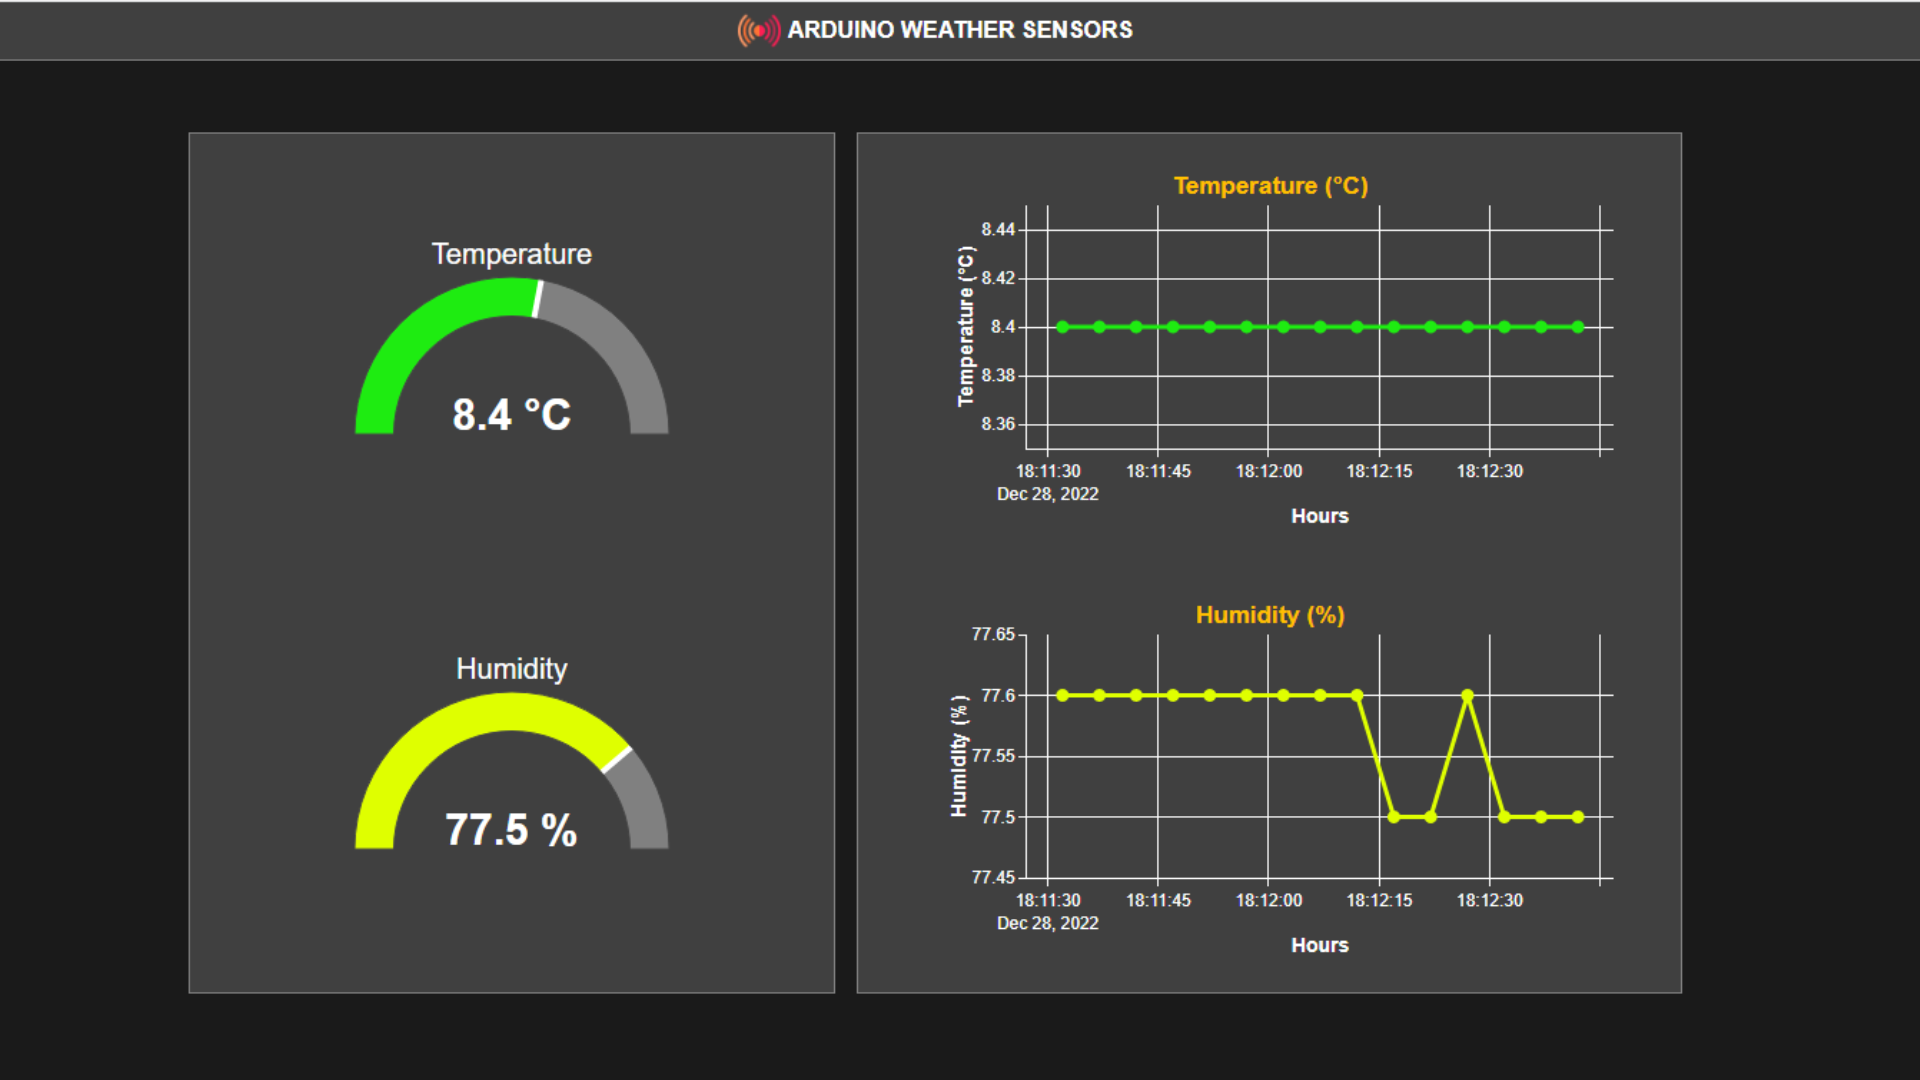
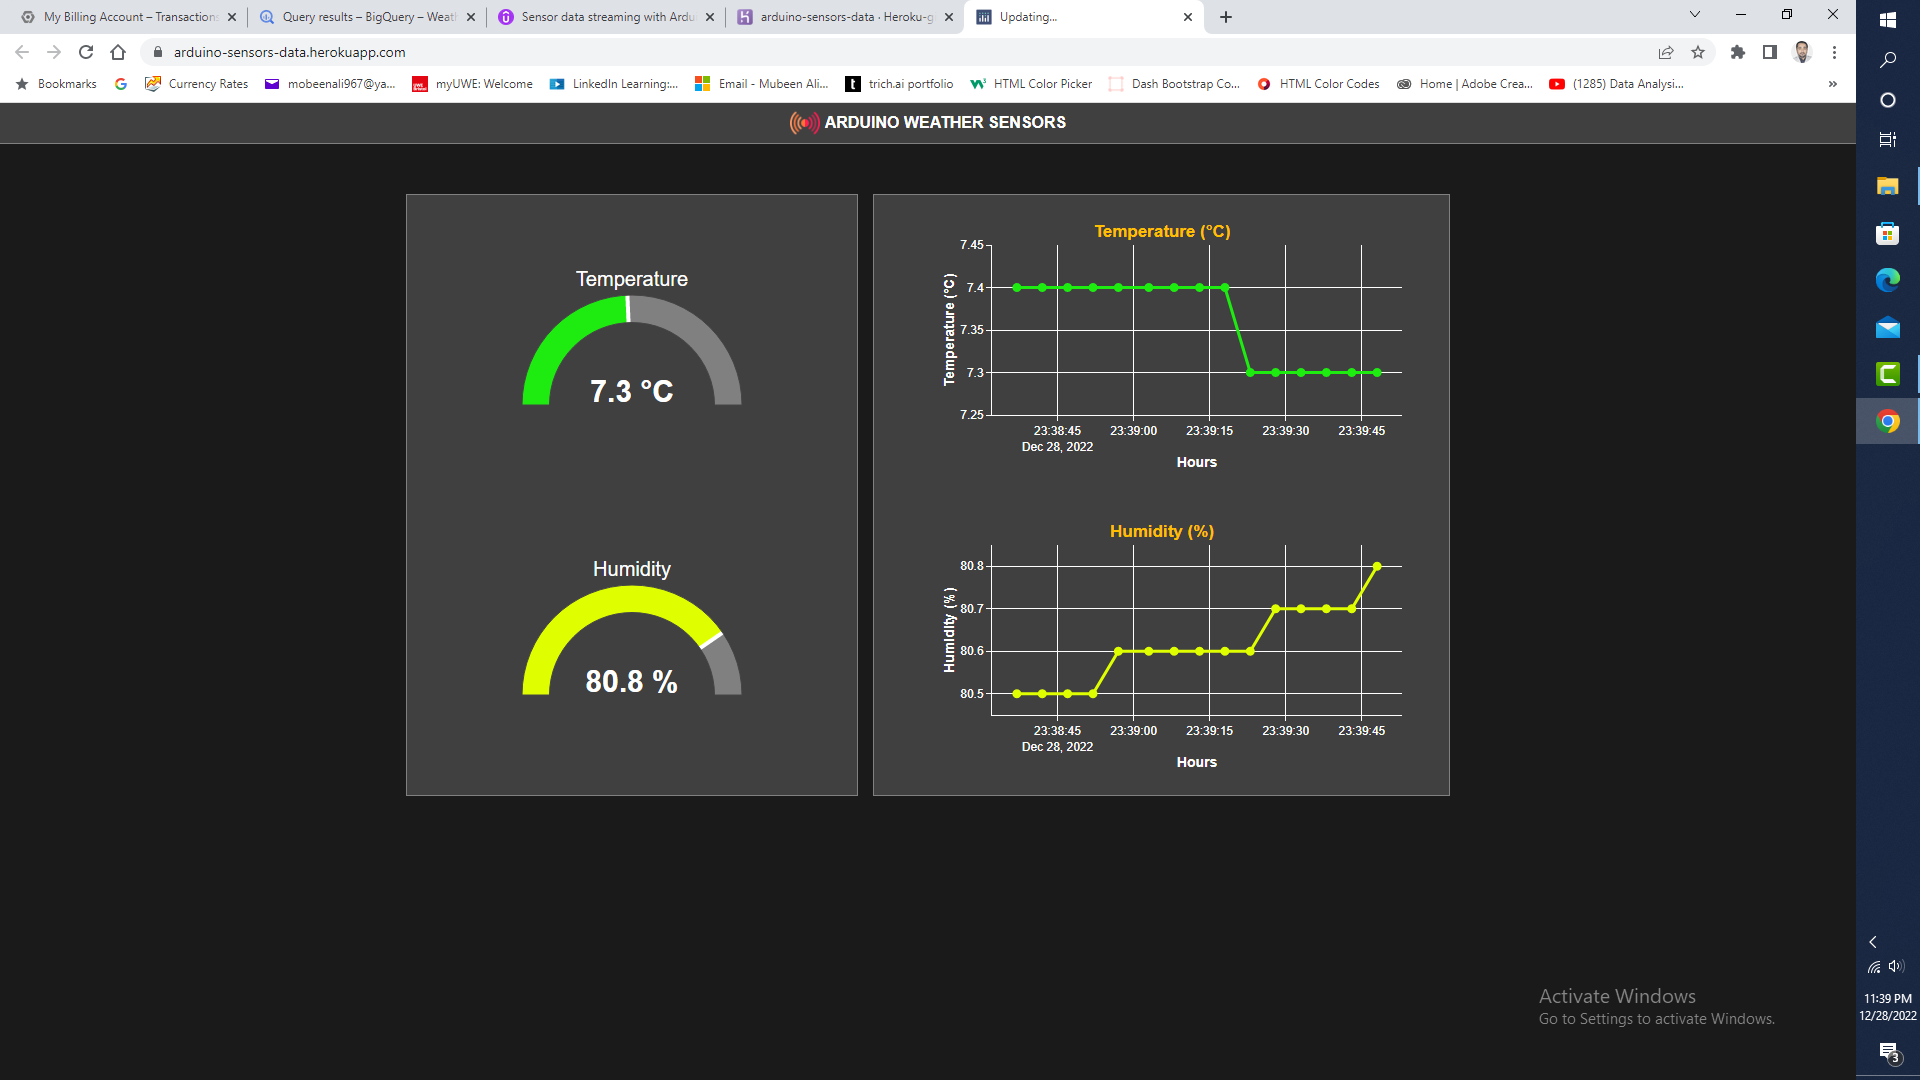
make it better

diff --git a/index.py b/index.py
@@ -13,7 +13,7 @@ server = app.server
 app.layout = html.Div([
 
     dcc.Interval(id='update_value',
-                 interval=1 * 4000,
+                 interval=1 * 11000,
                  n_intervals=0),
 
     html.Div([
